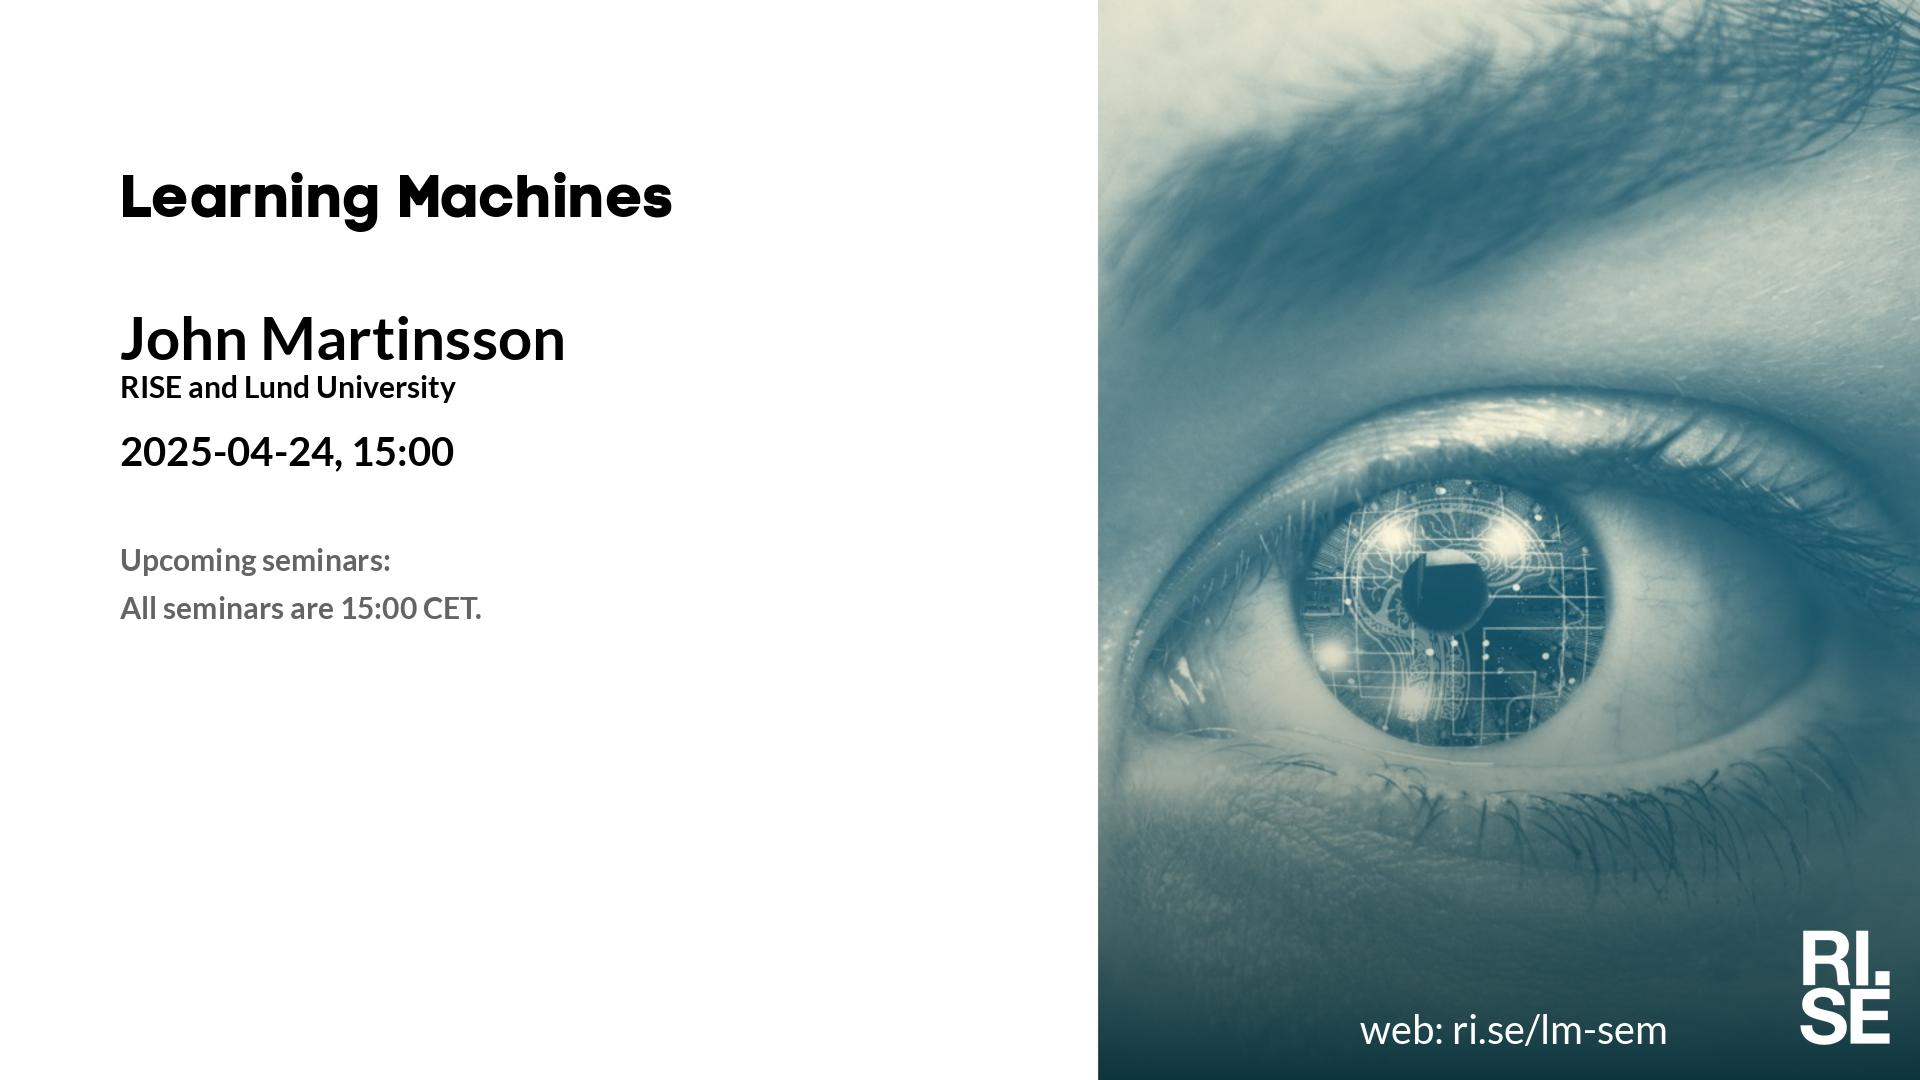
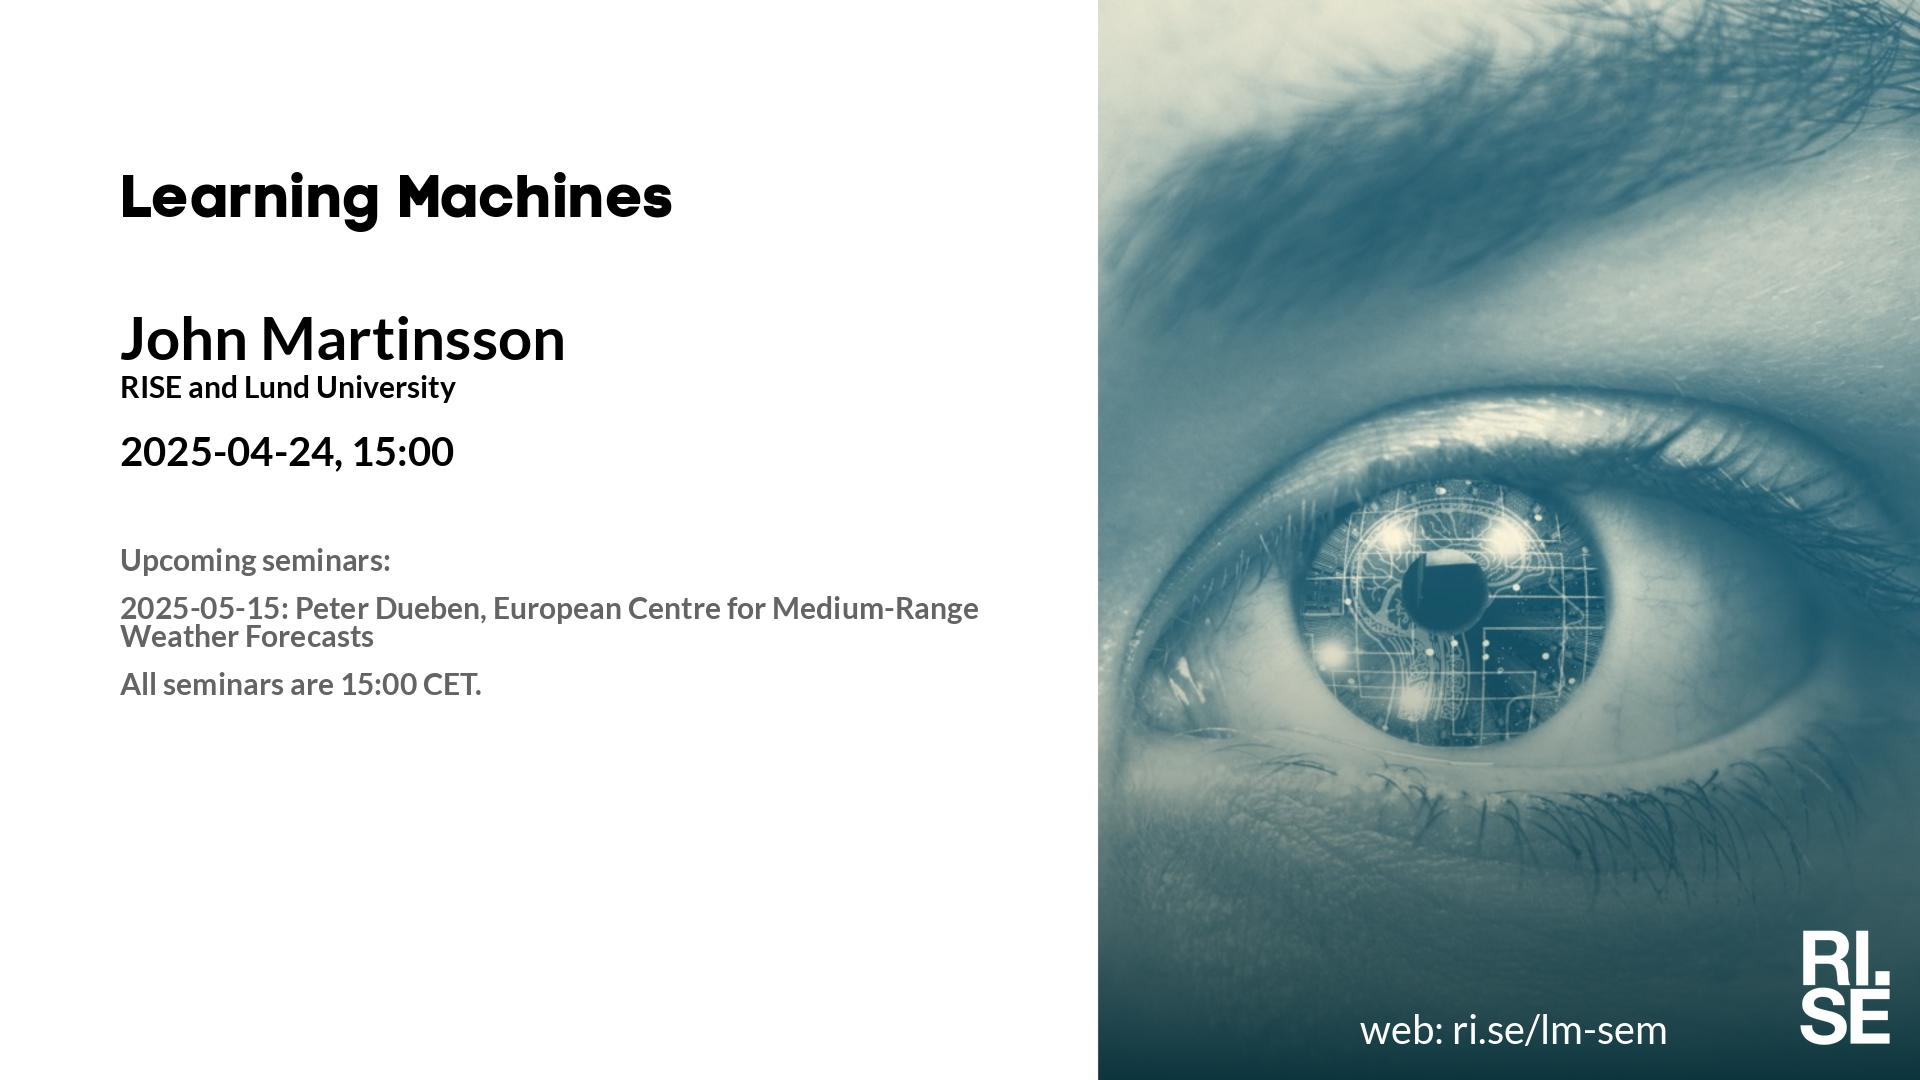
Updated plan on web site.

Changed region(s): [[0.0625, 0.55, 0.5, 0.6417]]

diff --git a/lm/2025.md b/lm/2025.md
@@ -26,7 +26,7 @@ table {border-collapse: collapse;}
 |  2025-04-24  |  [John Martinsson, RISE and Lund University](2025-04-24.md)  |  [photo](2025-04-24-photo-john-martinsson.jpg)  |  [social media ](2025-04-24-social-media-john-martinsson.jpg)  |  [meeting backdrop ](2025-04-24-meeting-backdrop-john-martinsson.jpg)  |  [youtube thumbnail ](2025-04-24-youtube-thumbnail-john-martinsson.jpg)  |  S~~TA~~BP  |
 | <span style="color:red"> 2025-05-01 </span> | <span style="color:red"> International Workers' Day </span> | <span style="color:red">  </span> | <span style="color:red">  </span> | <span style="color:red">  </span> | <span style="color:red">  </span> | <span style="color:red"> CANCELLED </span> |
 | <span style="color:purple"> 2025-05-08 </span> | <span style="color:purple"> *Up for grabs!!!* </span> | <span style="color:purple">  </span> | <span style="color:purple">  </span> | <span style="color:purple">  </span> | <span style="color:purple">  </span> | <span style="color:purple"> ~~STABP~~ </span> |
-| <span style="color:grey"> 2025-05-15 </span> | <span style="color:grey"> Peter D. ? </span> | <span style="color:grey">  </span> | <span style="color:grey">  </span> | <span style="color:grey">  </span> | <span style="color:grey">  </span> | <span style="color:grey"> S~~TABP~~ </span> |
+|  2025-05-15  |  [Peter Dueben, European Centre for Medium-Range Weather Forecasts](2025-05-15.md)  |    |  [social media ](2025-05-15-social-media-peter-dueben.jpg)  |  [meeting backdrop ](2025-05-15-meeting-backdrop-peter-dueben.jpg)  |  [youtube thumbnail ](2025-05-15-youtube-thumbnail-peter-dueben.jpg)  |  S~~TABP~~  |
 | <span style="color:purple"> 2025-05-22 </span> | <span style="color:purple"> *Up for grabs!!!* </span> | <span style="color:purple">  </span> | <span style="color:purple">  </span> | <span style="color:purple">  </span> | <span style="color:purple">  </span> | <span style="color:purple"> ~~STABP~~ </span> |
 | <span style="color:red"> 2025-05-29 </span> | <span style="color:red"> Ascension Day  </span> | <span style="color:red">  </span> | <span style="color:red">  </span> | <span style="color:red">  </span> | <span style="color:red">  </span> | <span style="color:red"> CANCELLED </span> |
 | <span style="color:red"> 2025-06-05 </span> | <span style="color:red"> No Seminar </span> | <span style="color:red">  </span> | <span style="color:red">  </span> | <span style="color:red">  </span> | <span style="color:red">  </span> | <span style="color:red"> CANCELLED </span> |

diff --git a/lm/index.md b/lm/index.md
@@ -26,7 +26,7 @@ table {border-collapse: collapse;}
 |  2025-04-24  |  [John Martinsson, RISE and Lund University](2025-04-24.md)  |  [photo](2025-04-24-photo-john-martinsson.jpg)  |  [social media ](2025-04-24-social-media-john-martinsson.jpg)  |  [meeting backdrop ](2025-04-24-meeting-backdrop-john-martinsson.jpg)  |  [youtube thumbnail ](2025-04-24-youtube-thumbnail-john-martinsson.jpg)  |  S~~TA~~BP  |
 | <span style="color:red"> 2025-05-01 </span> | <span style="color:red"> International Workers' Day </span> | <span style="color:red">  </span> | <span style="color:red">  </span> | <span style="color:red">  </span> | <span style="color:red">  </span> | <span style="color:red"> CANCELLED </span> |
 | <span style="color:purple"> 2025-05-08 </span> | <span style="color:purple"> *Up for grabs!!!* </span> | <span style="color:purple">  </span> | <span style="color:purple">  </span> | <span style="color:purple">  </span> | <span style="color:purple">  </span> | <span style="color:purple"> ~~STABP~~ </span> |
-| <span style="color:grey"> 2025-05-15 </span> | <span style="color:grey"> Peter D. ? </span> | <span style="color:grey">  </span> | <span style="color:grey">  </span> | <span style="color:grey">  </span> | <span style="color:grey">  </span> | <span style="color:grey"> S~~TABP~~ </span> |
+|  2025-05-15  |  [Peter Dueben, European Centre for Medium-Range Weather Forecasts](2025-05-15.md)  |    |  [social media ](2025-05-15-social-media-peter-dueben.jpg)  |  [meeting backdrop ](2025-05-15-meeting-backdrop-peter-dueben.jpg)  |  [youtube thumbnail ](2025-05-15-youtube-thumbnail-peter-dueben.jpg)  |  S~~TABP~~  |
 | <span style="color:purple"> 2025-05-22 </span> | <span style="color:purple"> *Up for grabs!!!* </span> | <span style="color:purple">  </span> | <span style="color:purple">  </span> | <span style="color:purple">  </span> | <span style="color:purple">  </span> | <span style="color:purple"> ~~STABP~~ </span> |
 | <span style="color:red"> 2025-05-29 </span> | <span style="color:red"> Ascension Day  </span> | <span style="color:red">  </span> | <span style="color:red">  </span> | <span style="color:red">  </span> | <span style="color:red">  </span> | <span style="color:red"> CANCELLED </span> |
 | <span style="color:red"> 2025-06-05 </span> | <span style="color:red"> No Seminar </span> | <span style="color:red">  </span> | <span style="color:red">  </span> | <span style="color:red">  </span> | <span style="color:red">  </span> | <span style="color:red"> CANCELLED </span> |

diff --git a/lm/statistics-2025.md b/lm/statistics-2025.md
@@ -10,11 +10,11 @@ title: Learning Machines Statistics 2025
 
 
 
-## 11 speakers
+## 12 speakers
 
-Abdul Shaamala, Abdulhakim Abdi, Amal Nammouchi, Atakan Aral, Benjamin Cretois, John Martinsson, María J. Molina, Newton Mwai Kinyanjui, Oriol Nieto, Oscar Täckström, Sherrie Wang
+Abdul Shaamala, Abdulhakim Abdi, Amal Nammouchi, Atakan Aral, Benjamin Cretois, John Martinsson, María J. Molina, Newton Mwai Kinyanjui, Oriol Nieto, Oscar Täckström, Peter Dueben, Sherrie Wang
 
-## 11 affiliations
+## 12 affiliations
 
-Adobe, Chalmers University of Technology, Karlstad University and AfriClimate AI, Lund University, MIT, Norwegian Institute for Nature Research, Queensland University of Technology, RISE and Lund University, Sana Labs, University of Maryland, University of Vienna
+Adobe, Chalmers University of Technology, European Centre for Medium-Range Weather Forecasts, Karlstad University and AfriClimate AI, Lund University, MIT, Norwegian Institute for Nature Research, Queensland University of Technology, RISE and Lund University, Sana Labs, University of Maryland, University of Vienna
 

diff --git a/lm/2025-05-15.md b/lm/2025-05-15.md
@@ -1,0 +1,29 @@
+---
+layout: default
+metatags: "<meta name=\"robots\" content=\"noindex,nofollow\" />"
+---
+ 
+Welcome to this week's Learning Machines seminar.
+
+**Title:** N/A
+
+**Speaker:** Peter Dueben, European Centre for Medium-Range Weather Forecasts
+
+**Abstract:** N/A
+
+**About the speaker:** N/A
+
+**Location:** This is an online seminar. Connect using Zoom.
+
+**Date:** 2025-05-15 15:00
+
+**Zoom link:** [N/A](N/A)
+
+**Upcoming seminars:**
+
+* All seminars are 15:00 CET.
+
+More information and coming seminars: [https://ri.se/lm-sem](https://ri.se/lm-sem)
+
+-- The Learning Machines Team
+

diff --git a/lm/2025-04-24.md b/lm/2025-04-24.md
@@ -21,6 +21,7 @@ Welcome to this week's Learning Machines seminar.
 
 **Upcoming seminars:**
 
+* 2025-05-15: Peter Dueben, European Centre for Medium-Range Weather Forecasts
 * All seminars are 15:00 CET.
 
 More information and coming seminars: [https://ri.se/lm-sem](https://ri.se/lm-sem)
